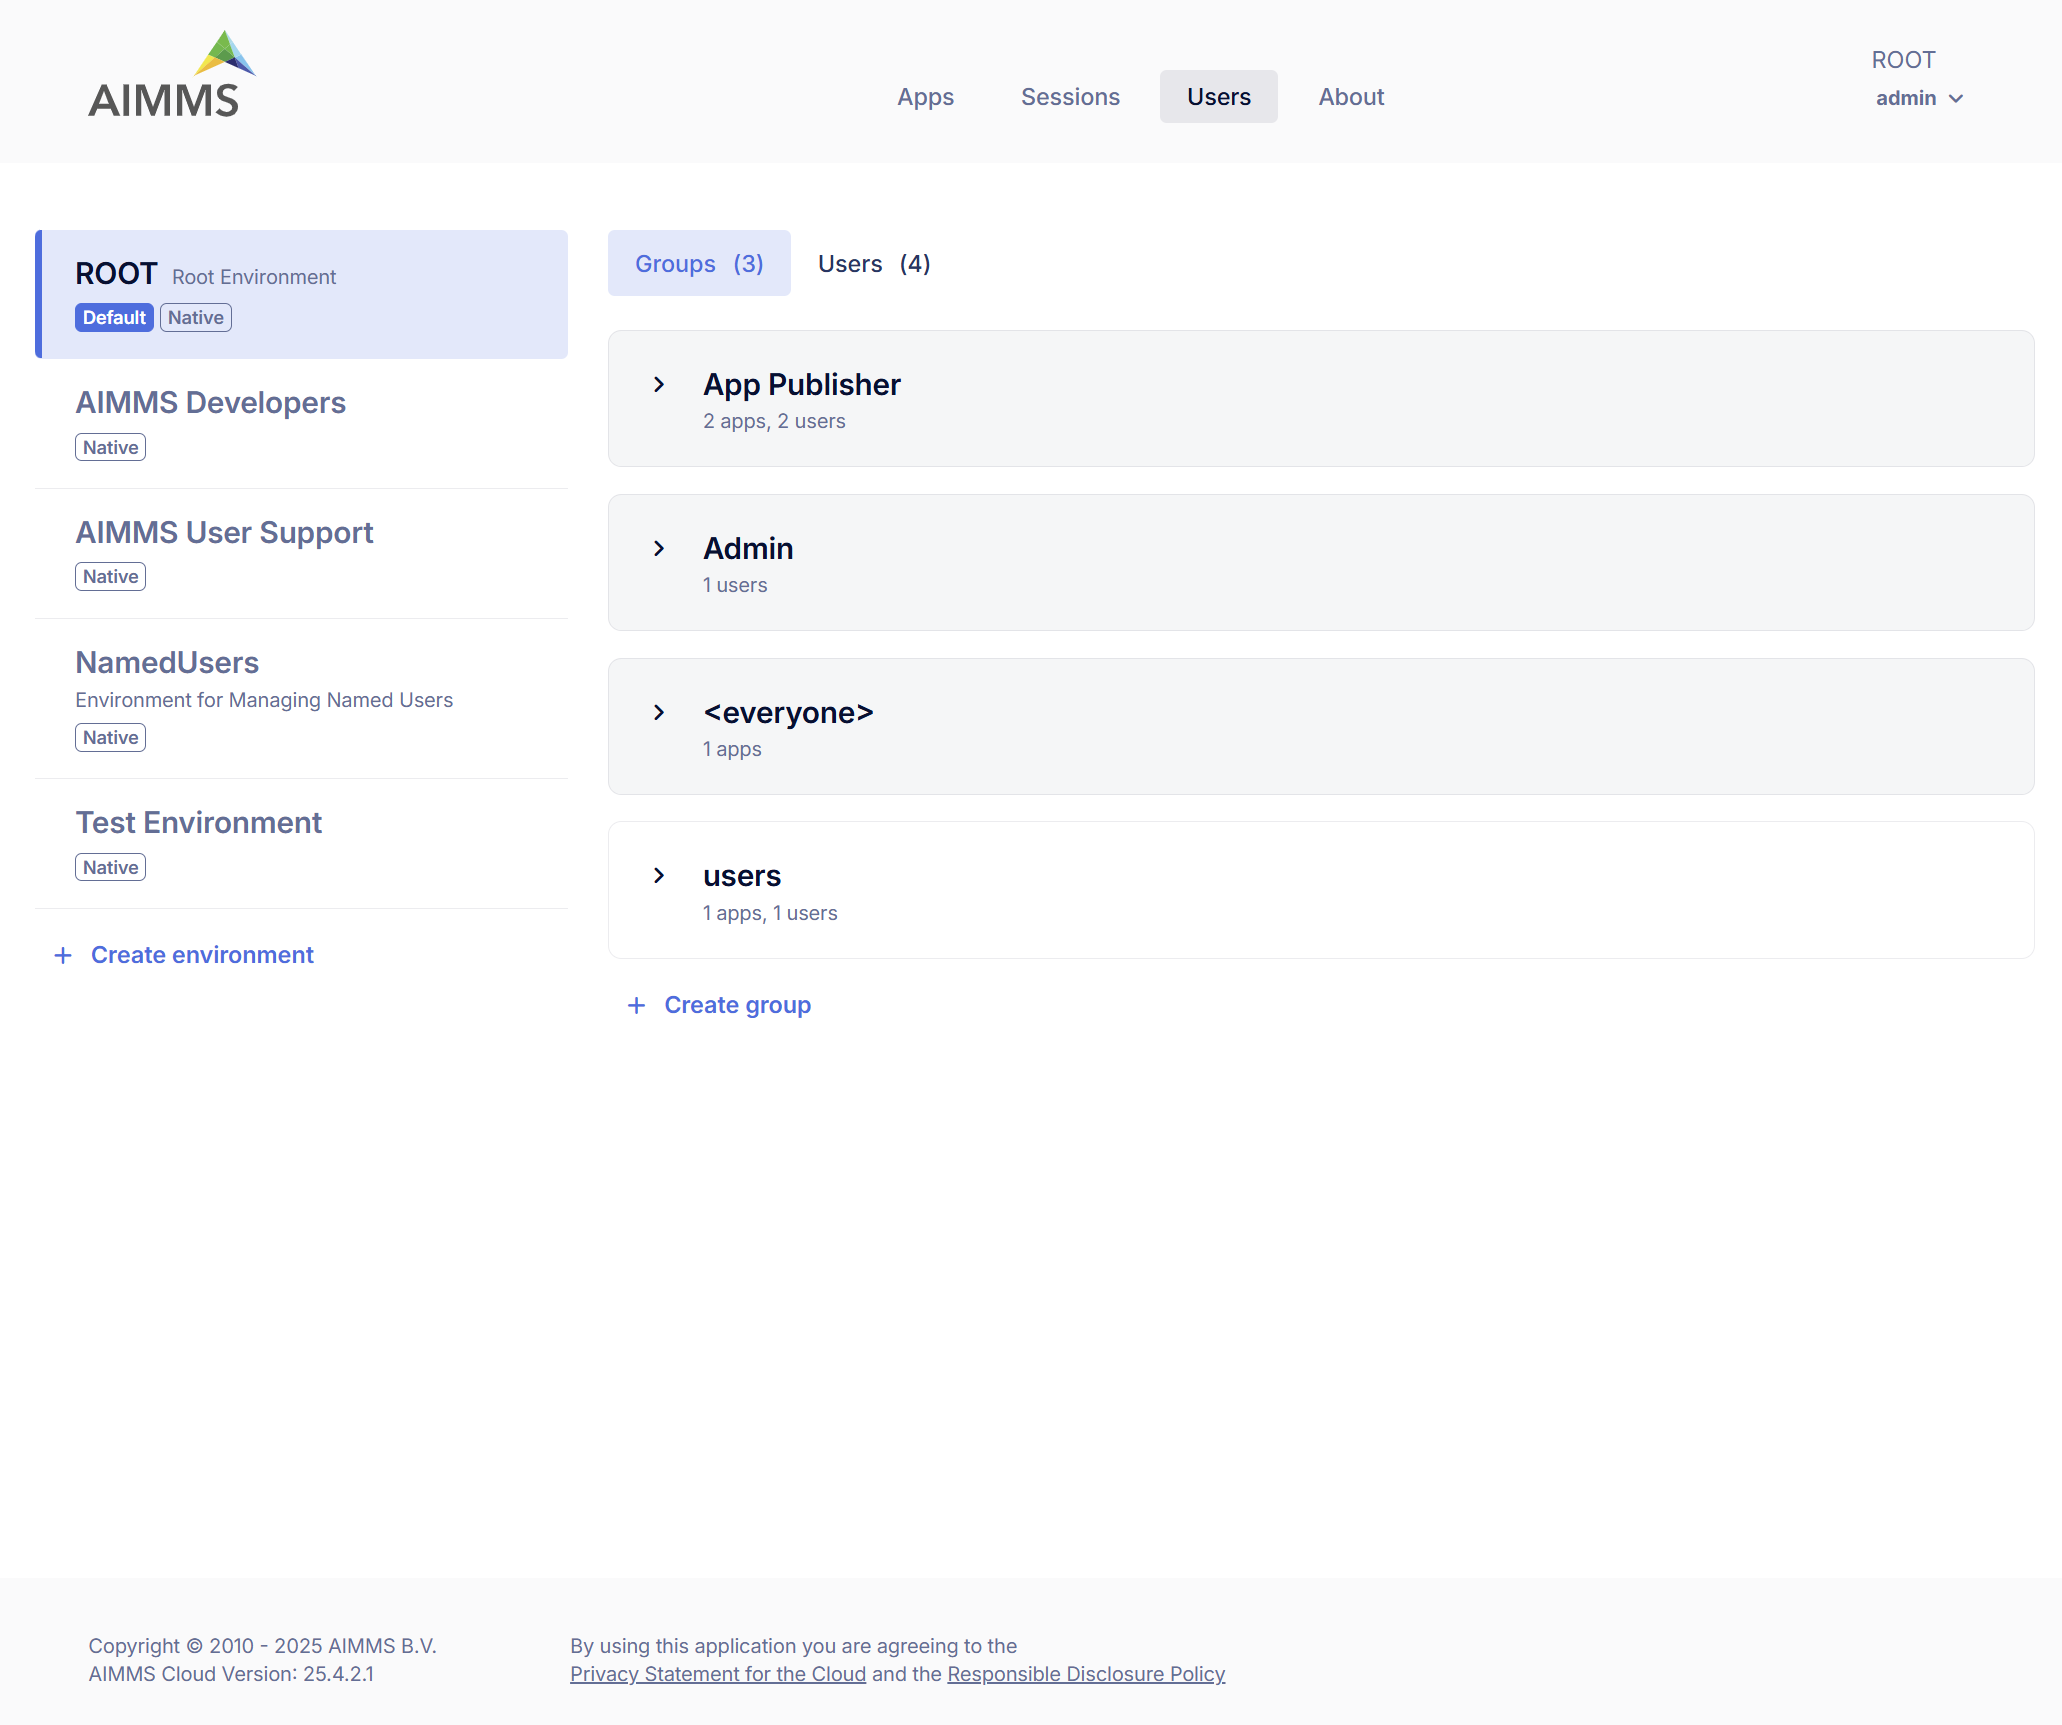
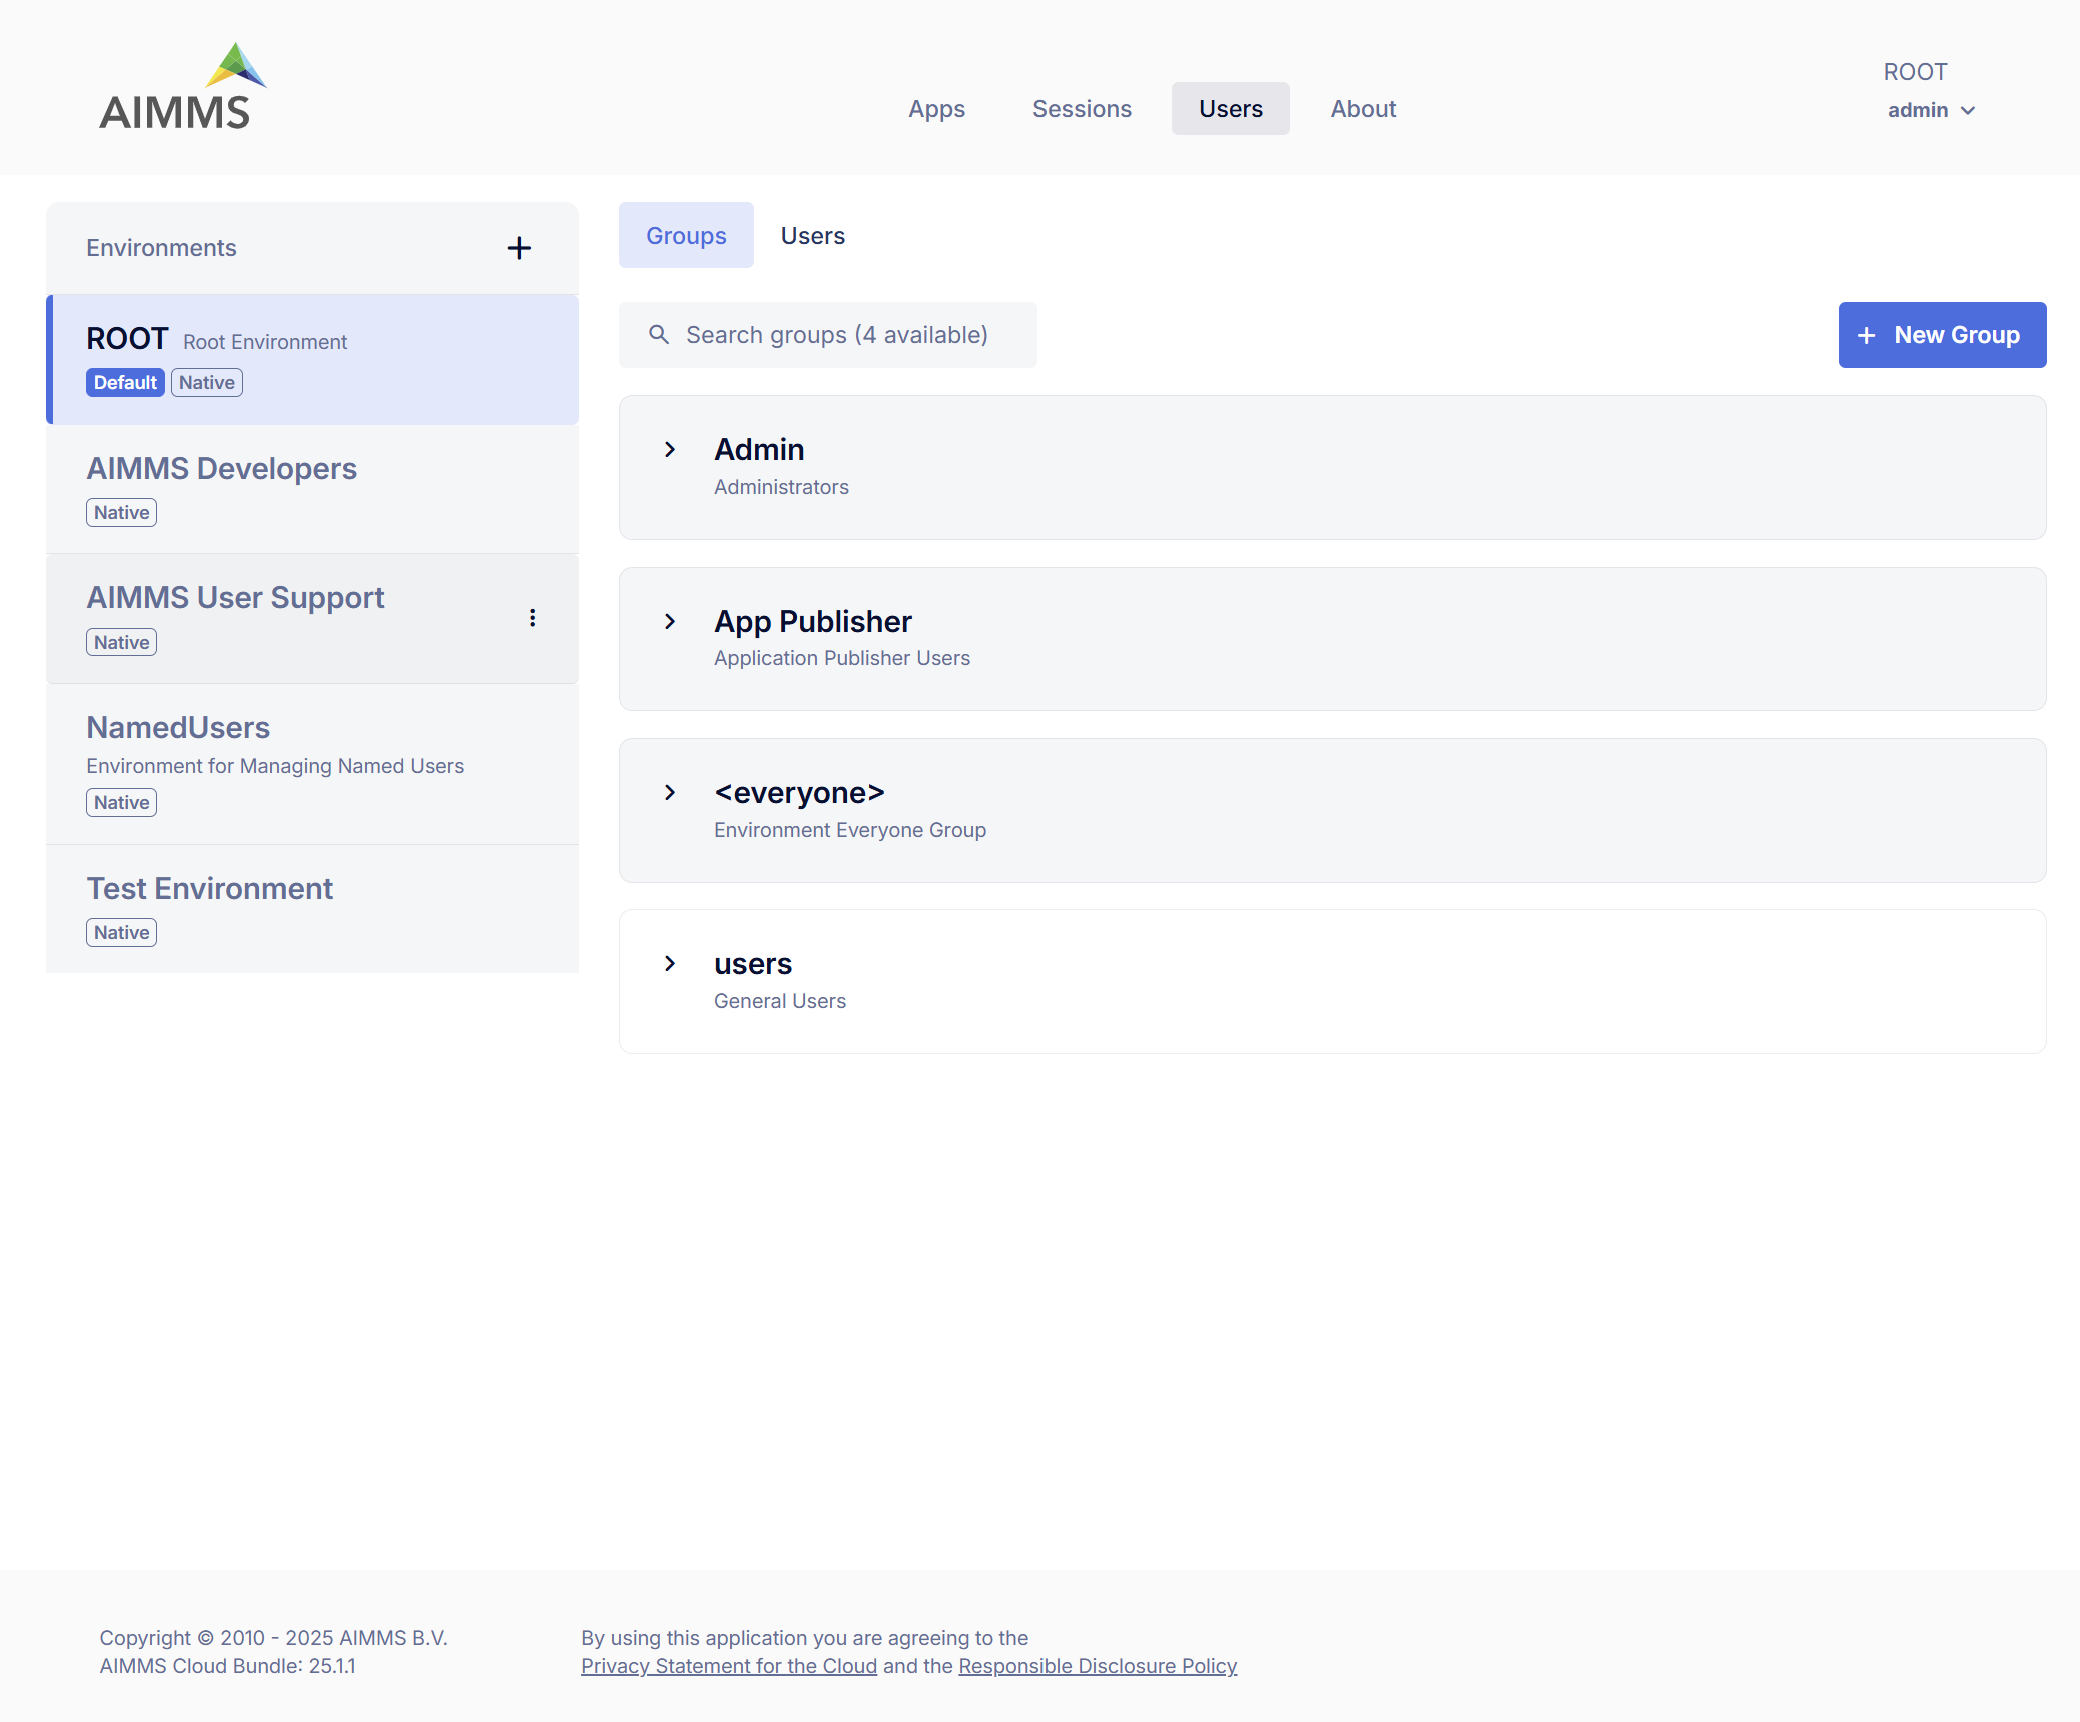
Updated Users page and images, RN - Portal 25.12.1

diff --git a/pro-release-notes.rst b/pro-release-notes.rst
@@ -4,6 +4,26 @@ AIMMS PRO Release Notes
 New Portal Updates
 ##################
 
+Version 25.12.1.0 (December 1, 2025)
+------------------------------------
+
+**Improvements**
+
+	- **User Management**: We have introduced several enhancements to improve navigation, clarity, and overall usability,
+		- *Streamlined Creation Actions*: Create Environment, Create Group, and Create User buttons have been moved to the top of their respective pages for quicker access.
+		- *Improved Search & Filtering*: Added search fields to both the Group and User lists, making it easier to locate specific entries.
+		- *Optimized Data Loading*: Groups and users are now fetched only when you open their respective tabs within an environment. This removes the previous automatic prefetching, resulting in faster initial navigation and more intentional data loads.
+	- **Updated User Roles Model**: We have replaced the Global Roles with a new, simplified Roles model,
+		- User roles can no longer be assigned directly, the Roles column is read-only.
+		- A user’s role is assigned automatically based on their membership in one of the system-defined groups.
+		- User roles are currently limited to two system-defined roles, *Admin* and *App Publisher*.
+		
+	For more details, please see the `documentation <https://documentation.aimms.com/cloud/newportal-users.html>`__	
+
+**Resolved Issues**
+
+   - Fixed an issue that prevented users from entering a value in the **Schedule For** field when creating a task.
+
 Version 25.11.1.1 (November 11, 2025)
 -------------------------------------
 
